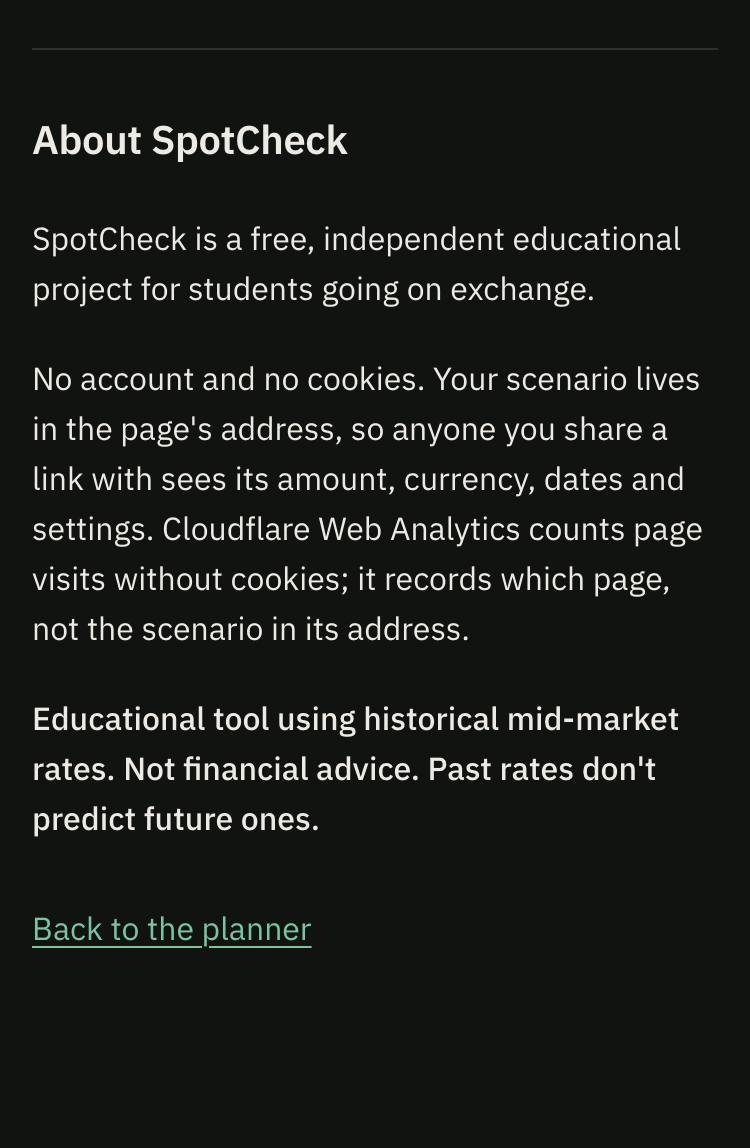
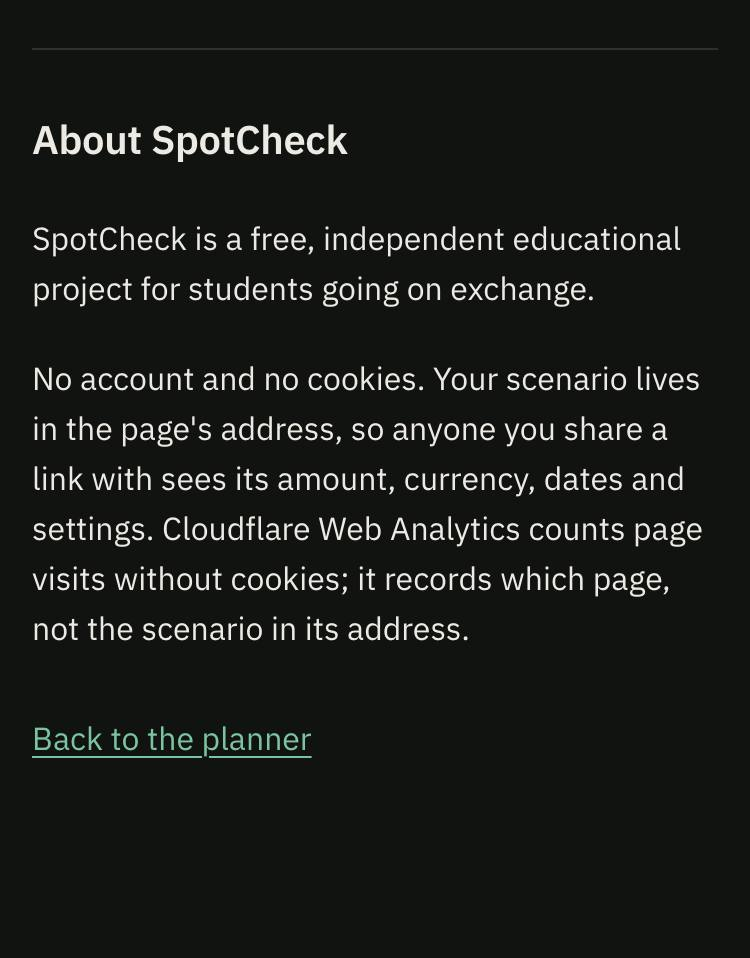
docs: PR G screenshots and notes after review changes

Changed region(s): [[0.0307, 0.0908, 0.9507, 0.7265], [0.0307, 0.7568, 0.4293, 0.8476], [0.0613, 0.0303, 0.9507, 0.0605]]

diff --git a/scripts/design-shots.ts b/scripts/design-shots.ts
@@ -211,13 +211,22 @@ const SHOTS: Record<string, Shot> = {
       .getByText(/only has for USD|USD only/)
       .first()
       .waitFor();
+    // Until its rates load, the switch button has no amount yet (PR G).
+    await page.waitForFunction(
+      () =>
+        !document
+          .querySelector('[data-testid="switch-to-usd"]')
+          ?.hasAttribute("disabled"),
+    );
     await page.waitForTimeout(500);
     await viewport(page, name("g-hedging-jpy"));
-    await section(
-      page,
-      name("g-hedging-notice"),
-      "main p:has(svg.text-caution)",
-    );
+    // An element shot: the notice sits below lazy content that can still
+    // settle, so a clip measured beforehand can miss it.
+    await page.locator('main p:has([data-testid="switch-to-usd"])').screenshot({
+      path: name("g-hedging-notice"),
+      type: "jpeg",
+      quality: 72,
+    });
     await page.goto(`${base}/how-it-works`);
     await page.evaluate(() => document.fonts.ready);
     await section(page, name("g-about"), "#about");

diff --git a/docs/design/pr-g/compare.md b/docs/design/pr-g/compare.md
@@ -16,11 +16,11 @@ What was checked on `main` first:
 | ![](before/g-about-375-light.jpg) | ![](after/g-about-375-light.jpg) |
 | ![](before/g-about-1440-dark.jpg) | ![](after/g-about-1440-dark.jpg) |
 
-The note under Copy link, and the error screens' "Nothing was saved.", are in the glance pairs below. The page-level error screen has no screenshot, because nothing can trigger it on demand.
+The note under Copy link, and the error screens' "Nothing was saved.", are in the glance pairs below. About no longer repeats the disclaimer; the footer keeps it. The page-level error screen has no screenshot, because nothing can trigger it on demand.
 
 ## F08: Hedging is USD only
 
-The nav reads "Hedging (USD)". With another currency, Switch to USD says what it prices and keeps the plan for the planner.
+The nav reads "Hedging (USD)". With another currency, Switch to USD converts the amount exactly as the currency picker does, says the result first ("about USD 3,160 at the rate on 16 Oct 2026"; the label wraps on phones), and keeps the original plan for the planner.
 
 | Before                                     | After                                     |
 | ------------------------------------------ | ----------------------------------------- |
@@ -71,8 +71,8 @@ On phones, the axis ticks are compact (S$1T) and each median sits under its name
 
 | Check                             | Result                                                                                                                                                                               |
 | --------------------------------- | ------------------------------------------------------------------------------------------------------------------------------------------------------------------------------------ |
-| `npm run check`                   | 575 tests passed                                                                                                                                                                     |
-| Playwright                        | 709 passed, 111 skipped by project, 0 failed                                                                                                                                         |
+| `npm run check`                   | 577 tests passed                                                                                                                                                                     |
+| Playwright                        | 717 passed, 111 skipped by project, 0 failed                                                                                                                                         |
 | New tests against `main`'s build  | 20 of 27 fail. The 7 that pass guard behaviour that was already right: storing nothing, a bad `from` ignored, the range chart at normal amounts, and the F05 link hidden on desktop. |
 | axe (WCAG A/AA)                   | 0 violations: Planner, Planner at 1Y, Hedging, Hedging with JPY, How it works, 404, BND, EUR 1e12; at 375 and 1366; both themes                                                      |
 | Parity against `main` (same data) | 0 differences in 146 checks: 5 currencies, each at All/1Y/5Y/10Y, plus USD Hedging. The new "(scheduled …)" labels are set aside; every figure is identical.                         |

diff --git a/docs/design/pr-g/plan.md b/docs/design/pr-g/plan.md
@@ -23,7 +23,7 @@ From the external QA review, after PR F. Copy and display only: no engine, data 
   - Under Copy link: "The link includes this plan's amount, currency, dates and settings."
 - **F08:**
   - Nav (top and tab bar) reads "Hedging (USD)", spoken as "Hedging, USD only". The Hedging lede's planner link and the planner's own links say the same where they point to Hedging.
-  - On Hedging with another currency: a "Switch to USD" button that says exactly what it does, "Price USD 500,000 instead, the same number in US dollars". It never converts or rescales silently.
+  - On Hedging with another currency: a "Switch to USD" button. (Changed at review: it converts the amount exactly as the currency picker does and names the result, "Switch to USD (about USD 3,160 at the rate on 16 Oct 2026)".)
   - The planner links on Hedging then go back to the original plan (JPY 500,000). The original is kept in the address as `from=JPY.500000`.
 - **F06:** above the chart, a group labelled "Start dates shown", and next to it the visible range: "30 Dec 2024 – 30 Dec 2025: 261 of 6,912 periods. Summary figures still use all periods." For All: "All 6,912 periods, 4 Jan 1999 – 30 Dec 2025." The note under the chart goes.
 - **F09:** not current: "Not current: these are for your last valid entry: USD 15,000 by 1 Aug 2027, from 17 Oct 2026, 6 conversions, 0.5% fee, 2% target." Copy link reads "Copy link to that entry" and Excel "Download Excel for that entry" while it applies.
